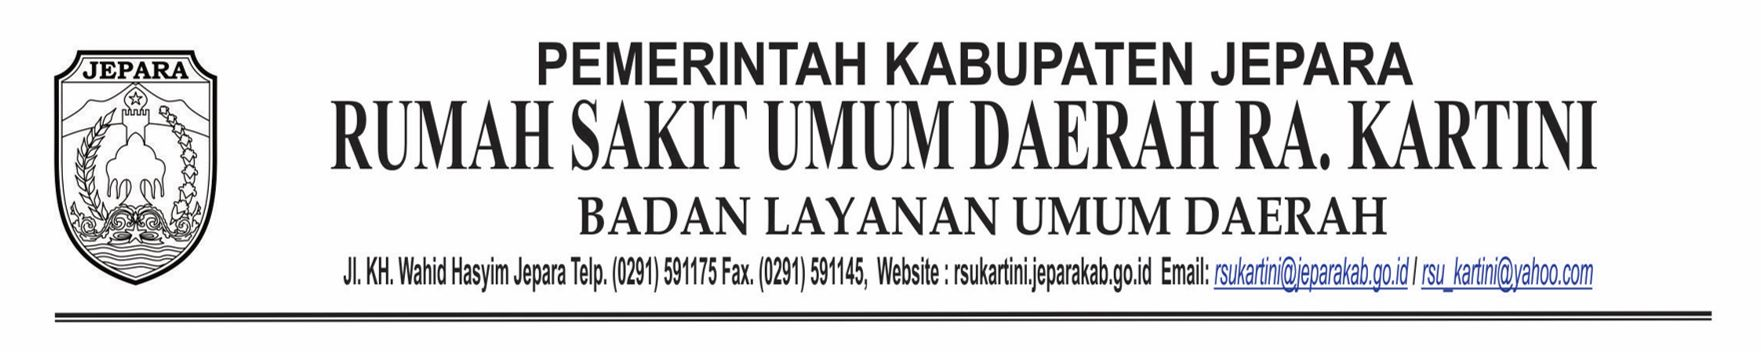
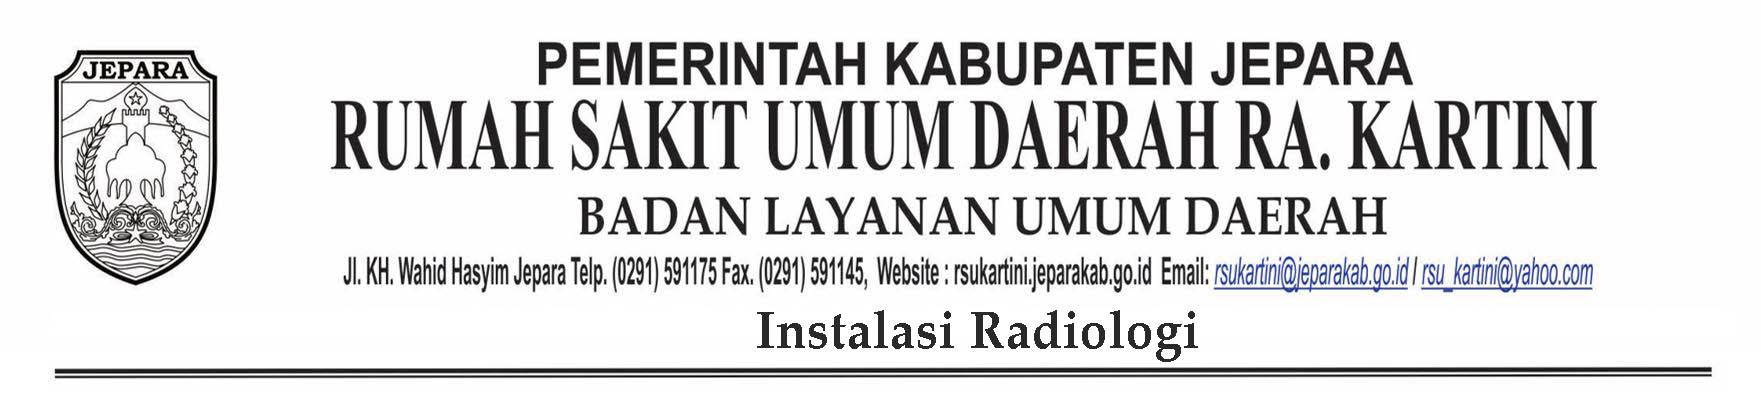
expertise

Changed region(s): [[0.0312, 0.0935, 0.9682, 0.966], [0.0312, 0.1246, 0.1249, 0.8102]]

diff --git a/radiology/pdf/expertise.php b/radiology/pdf/expertise.php
@@ -117,7 +117,7 @@ $pdf->SetFont('Arial', '', 10);
 $pdf->SetTitle('Hasil expertise');
 
 $pdf->image($kop_surat_image, 10, 3, 195);
-$pdf->MultiCell(0, 18, '', 0, "J", false);
+$pdf->MultiCell(0, 24, '', 0, "J", false);
 
 
 // ------------------------------------------------------------
@@ -205,15 +205,14 @@ $fill = str_replace('<div style="text-align:center;">', '<br /><p align="center"
 $fill = str_replace('<div style="text-align:left;">', '<br /><p align="left">', $fill);
 $fill = str_replace('<div style="text-align:right;">', '<br /><p align="right">', $fill);
 
-$pdf->WriteHTML("<strong><u><p align='center'>Instalasi Radiologi</p></u></strong>");
+// $pdf->WriteHTML("<strong><u><p align='center'>Instalasi Radiologi</p></u></strong>");
 $pdf->WriteHTML("<br>");
 $pdf->WriteHtml($fill);
 $pdf->WriteHTML("<br>");
 $pdf->WriteHTML("<br>");
 
 $pdf->WriteHTML(
-    "<p align='right'>Terimakasih atas kepercayaan TS</p>
-    <p align='right'>Salam sejawat</p>"
+    "<p align='right'>Salam sejawat</p>"
 );
 
 if ($expertise['signature_dokter_radiologi'] == 'qr_code') {
